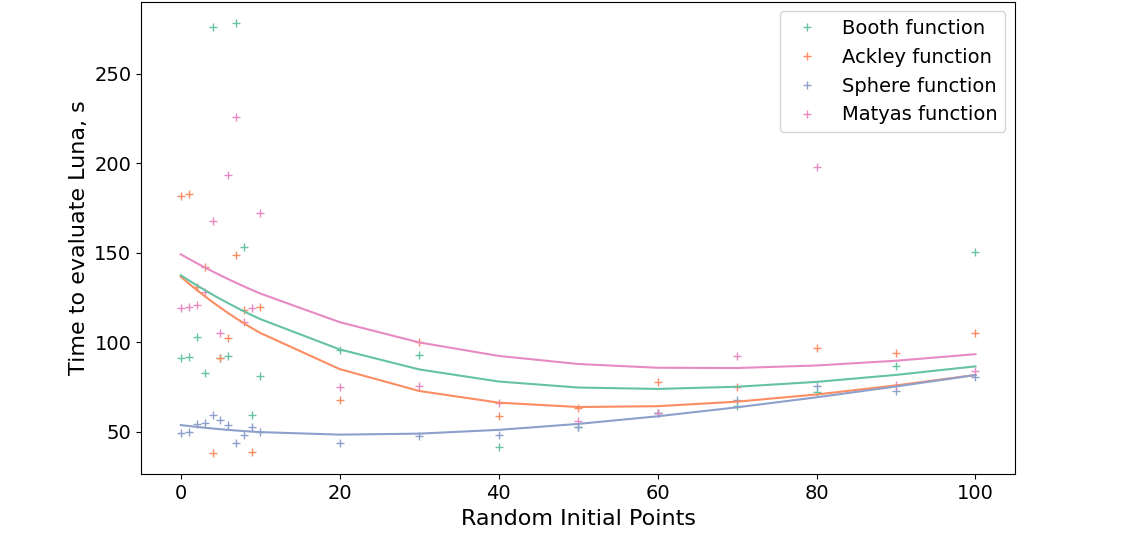
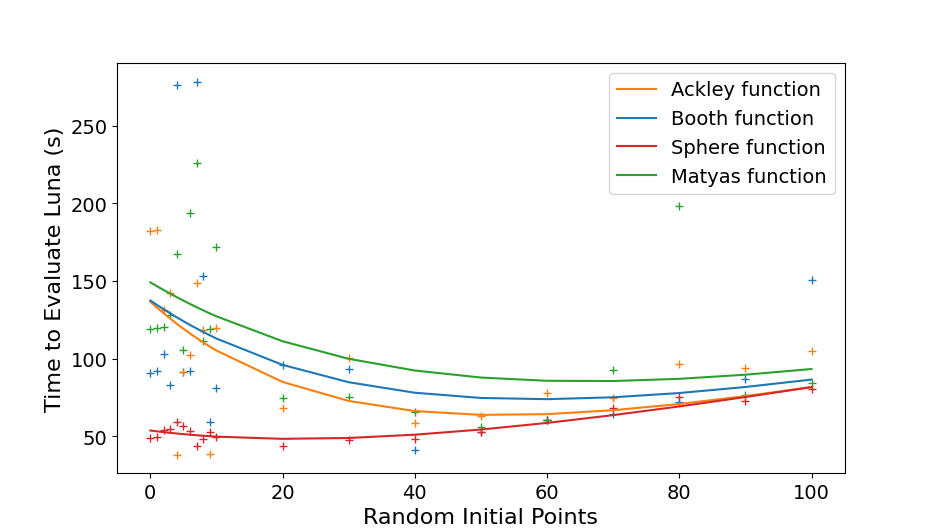
replotted

diff --git a/BO/tests/difficult_functions/plot_error_outcomes2.py b/BO/tests/difficult_functions/plot_error_outcomes2.py
@@ -1,0 +1,100 @@
+import numpy as np
+import matplotlib.pyplot as plt
+#plt.rcParams['axes.prop_cycle'] = plt.cycler(color=plt.cm.Set2.colors)
+plt.rcParams['xtick.labelsize'] = 12
+plt.rcParams['ytick.labelsize'] = 12
+plt.rcParams['axes.labelsize'] = 16
+inits=np.array([0,1,2,3,4,5,6,7,8,9,10,20,30,40,50,60,70,80,90,100])
+iters_booth=np.array([26,26,29,23,78,25,25,78,42,15,21,23,20,3,4,4,3,3,5,21])
+iters_ackley=np.array([52,52,37,40,10,25,28,41,32,9,32,15,22,8,7,9,6,10,7,8])
+iters_sphere=np.array([14,14,15,15,16,15,14,11,12,13,12,8,7,5,4,4,4,4,1,1])
+iters_matyas=np.array([34,34,34,36,47,29,54,63,30,32,47,17,15,10,5,4,11,39,2,2])
+
+def func(x,a,b):
+    return a*np.exp(-b*x)
+def func2(x,a,b,c):
+    return a*np.exp(-b*x)+inits
+
+from scipy.optimize import curve_fit
+
+popt_ackley,_=curve_fit(func,inits,iters_ackley)
+popt_booth,_=curve_fit(func,inits,iters_booth)
+popt_sphere,_=curve_fit(func,inits,iters_sphere)
+popt_matyas,_=curve_fit(func,inits,iters_matyas)
+
+def sum(x,y):
+    s=[]
+    for i in range(len(x)):
+        s.append(x[i]+y[i])
+    return np.array(s)
+"""
+plt.plot(inits,iters_booth,label="Booth function",marker="+",ls="None")
+plt.plot(inits, iters_ackley, label="Ackley function",marker="+",ls="None")
+plt.plot(inits, iters_sphere, label="Sphere function",marker="+",ls="None")
+plt.plot(inits, iters_matyas, label="Matyas function",marker="+",ls="None")
+"""
+plt.plot(inits,sum(0.77*inits,3.5*iters_booth),marker="+",ls="None", color='tab:blue')
+plt.plot(inits, sum(0.77*inits,3.5*iters_ackley),marker="+",ls="None", color='tab:orange')
+plt.plot(inits, sum(0.77*inits,3.5*iters_sphere),marker="+",ls="None", color='tab:red')
+plt.plot(inits, sum(0.77*inits,3.5*iters_matyas),marker="+",ls="None", color='tab:green')
+"""
+plt.plot(inits,func2(inits,*popt_ackley),color=plt.cm.Set2(1))
+plt.plot(inits,func2(inits,*popt_booth),color=plt.cm.Set2(0))
+plt.plot(inits,func2(inits,*popt_sphere),color=plt.cm.Set2(2))
+plt.plot(inits,func2(inits,*popt_matyas),color=plt.cm.Set2(3))
+"""
+#1 init 0.77
+#1 iter 3.50
+
+plt.plot(inits,sum(0.77*inits,3.5*func(inits,*popt_ackley)),color='tab:orange', label="Ackley function")
+plt.plot(inits,sum(0.77*inits,3.5*func(inits,*popt_booth)),color='tab:blue', label="Booth function")
+plt.plot(inits,sum(0.77*inits,3.5*func(inits,*popt_sphere)),color='tab:red', label="Sphere function")
+plt.plot(inits,sum(0.77*inits,3.5*func(inits,*popt_matyas)),color='tab:green', label="Matyas function")
+
+
+plt.xticks(fontsize=14)
+plt.yticks(fontsize=14)
+#plt.title("Penetrating within 0.1 of global optima of difficult functions", fontsize=20)
+plt.xlabel("Random Initial Points", fontsize=16)
+plt.ylabel("Time to Evaluate Luna (s)",fontsize=16)
+
+plt.legend(fontsize=14)
+
+print(inits[int((np.argmin(sum(0.77*inits,3.5*func(inits,*popt_ackley)))+np.argmin(sum(0.77*inits,3.5*func(inits,*popt_booth)))+np.argmin(sum(0.77*inits,3.5*func(inits,*popt_ackley))))/3)])
+
+plt.show()
+
+# Plot unscaled results
+plt.plot(inits,iters_booth,marker="+",ls="None", color='tab:blue')
+plt.plot(inits, iters_ackley,marker="+",ls="None", color='tab:orange')
+plt.plot(inits, iters_sphere,marker="+",ls="None", color='tab:red')
+plt.plot(inits, iters_matyas,marker="+",ls="None", color='tab:green')
+"""
+plt.plot(inits,sum(0.77*inits,3.5*iters_booth),marker="+",ls="None", color='tab:blue')
+plt.plot(inits, sum(0.77*inits,3.5*iters_ackley),marker="+",ls="None", color='tab:orange')
+plt.plot(inits, sum(0.77*inits,3.5*iters_sphere),marker="+",ls="None", color='tab:red')
+plt.plot(inits, sum(0.77*inits,3.5*iters_matyas),marker="+",ls="None", color='tab:green')
+"""
+plt.plot(inits,func(inits,*popt_ackley),color='tab:orange', label="Ackley function")
+plt.plot(inits,func(inits,*popt_booth),color='tab:blue', label="Booth function")
+plt.plot(inits,func(inits,*popt_sphere),color='tab:red', label="Sphere function")
+plt.plot(inits,func(inits,*popt_matyas),color='tab:green', label="Matyas function")
+"""
+#1 init 0.77
+#1 iter 3.50
+
+plt.plot(inits,sum(0.77*inits,3.5*func(inits,*popt_ackley)),color='tab:orange', label="Ackley function")
+plt.plot(inits,sum(0.77*inits,3.5*func(inits,*popt_booth)),color='tab:blue', label="Booth function")
+plt.plot(inits,sum(0.77*inits,3.5*func(inits,*popt_sphere)),color='tab:red', label="Sphere function")
+plt.plot(inits,sum(0.77*inits,3.5*func(inits,*popt_matyas)),color='tab:green', label="Matyas function")
+"""
+
+plt.xticks(fontsize=14)
+plt.yticks(fontsize=14)
+#plt.title("Penetrating within 0.1 of global optima of difficult functions", fontsize=20)
+plt.xlabel("Random Initial Points", fontsize=16)
+#plt.ylabel("Time to Evaluate Luna (s)",fontsize=16)
+plt.ylabel("Number of Iterations Required",fontsize=16)
+
+plt.legend(fontsize=14)
+plt.show()
